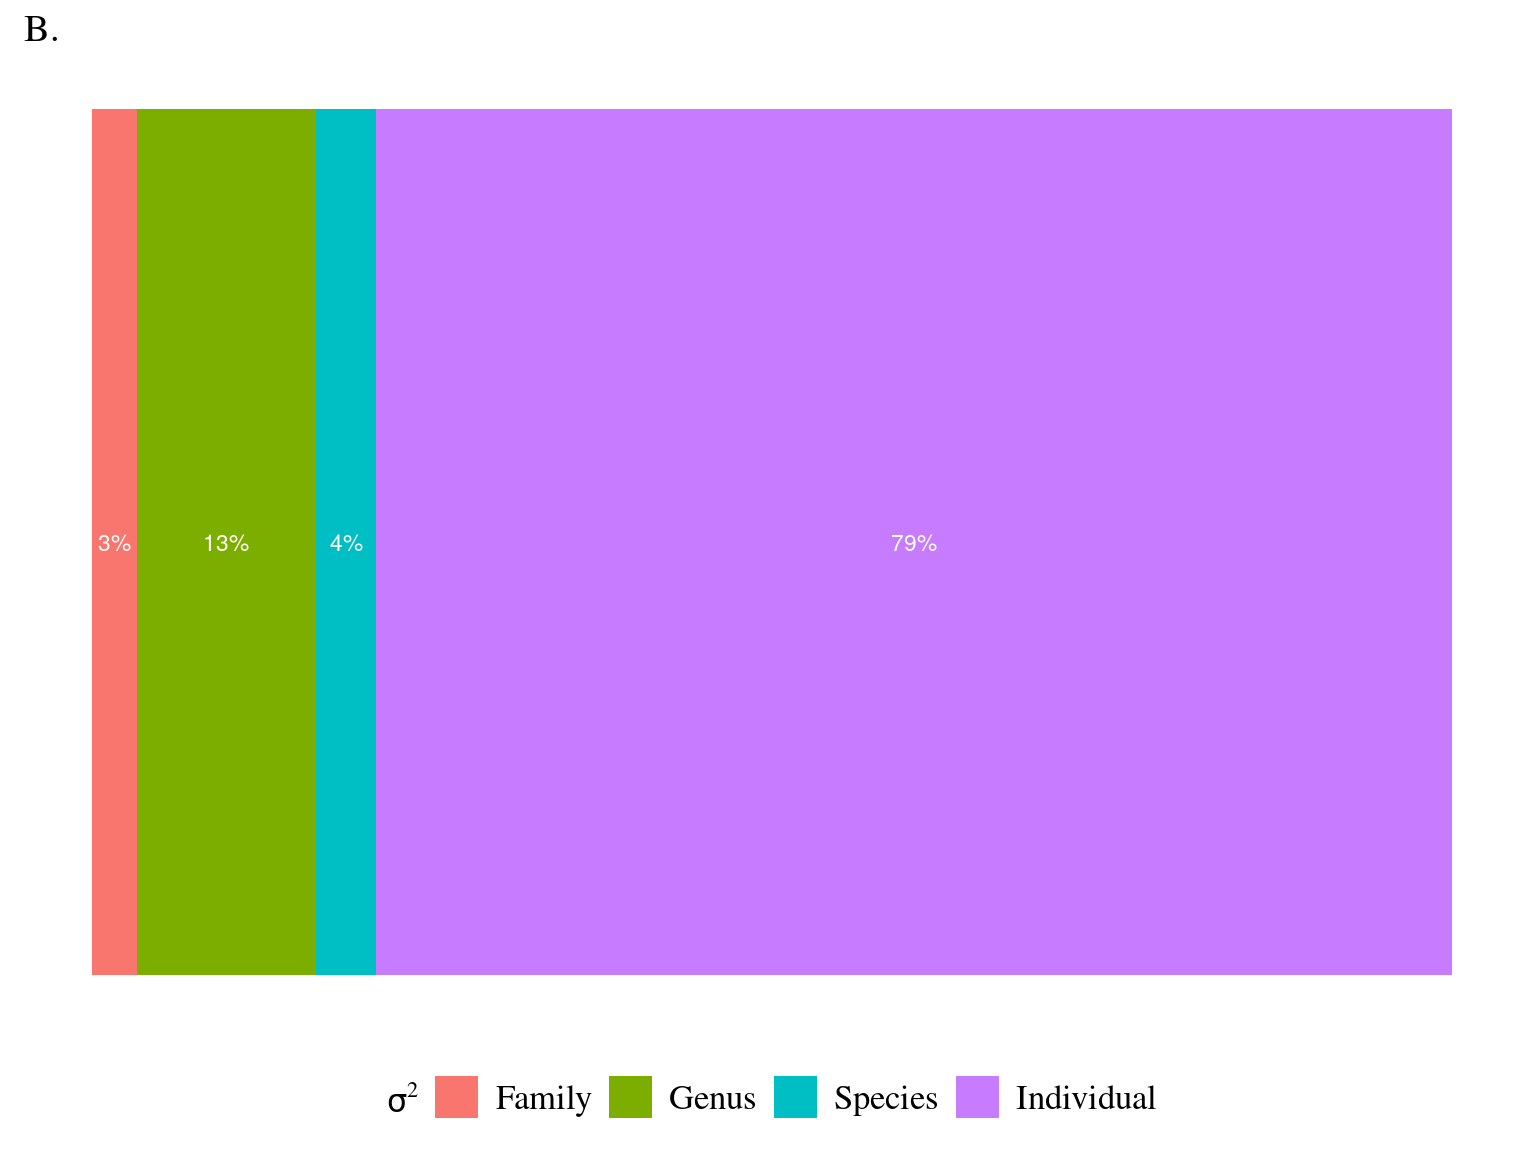
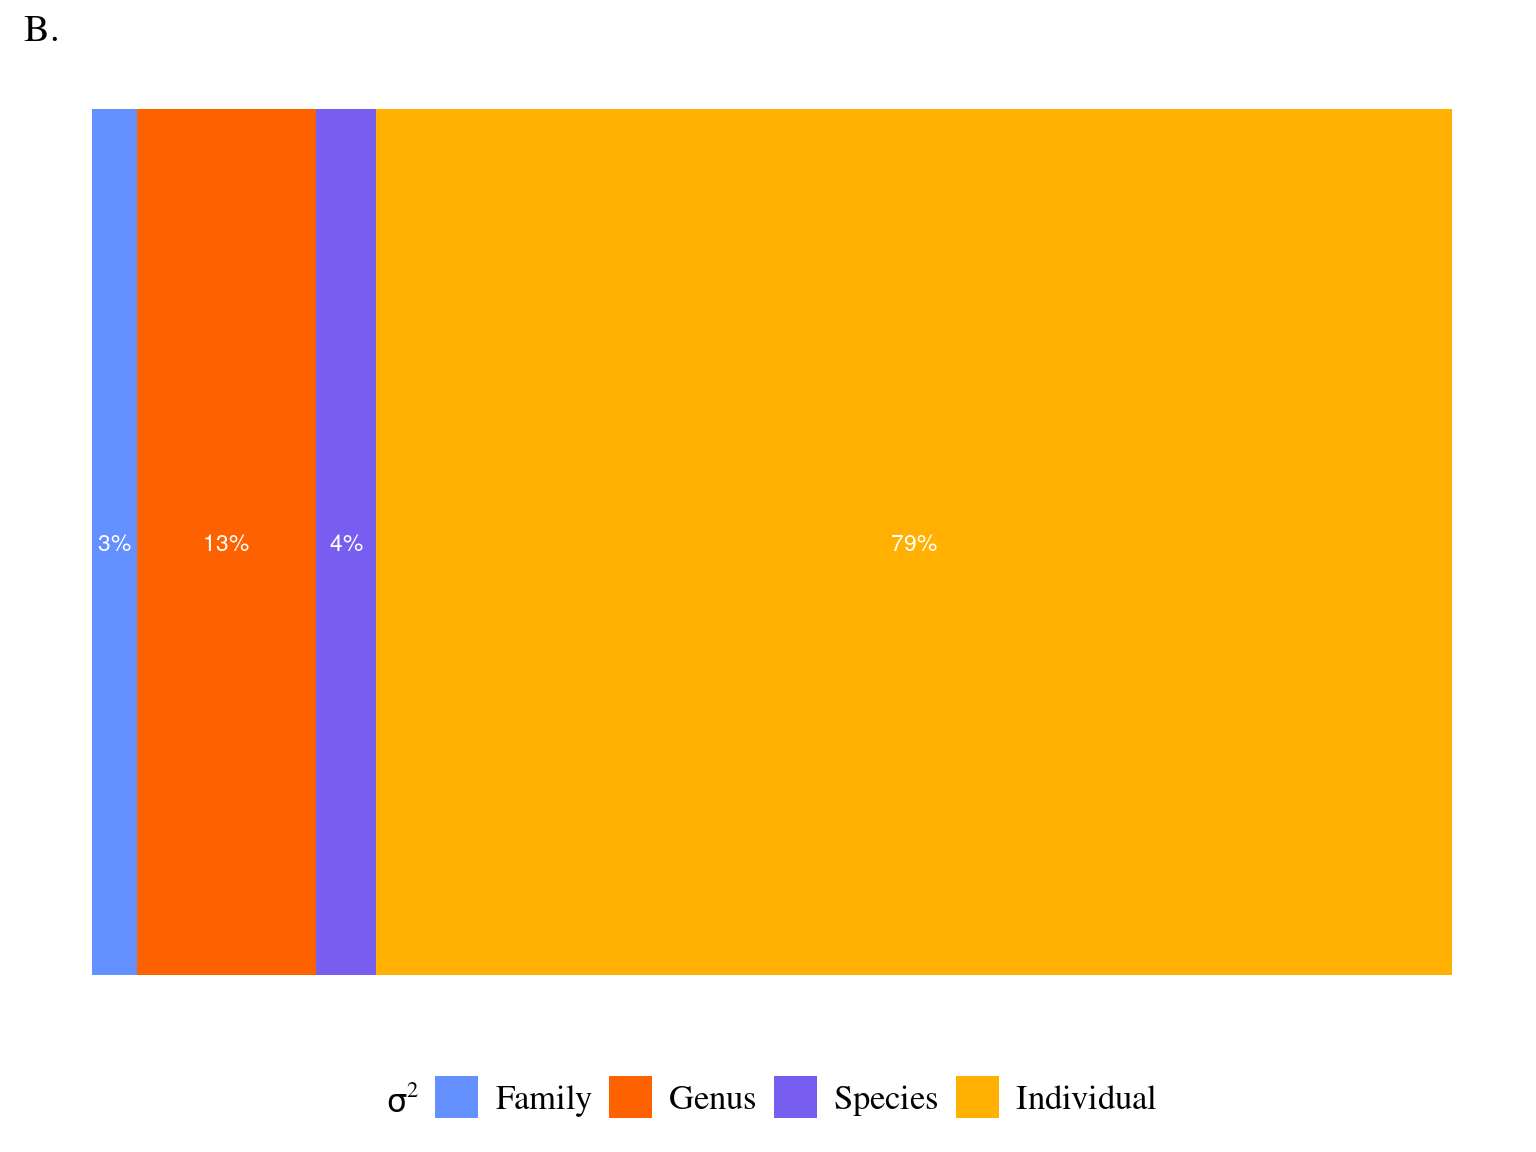
colourblind palette

diff --git a/docs/404.html b/docs/404.html
@@ -23,7 +23,7 @@
 <meta name="author" content="Sylvain Schmitt" />
 
 
-<meta name="date" content="2023-01-16" />
+<meta name="date" content="2023-01-20" />
 
   <meta name="viewport" content="width=device-width, initial-scale=1" />
   <meta name="apple-mobile-web-app-capable" content="yes" />
@@ -55,70 +55,6 @@
 <script async defer src="https://hypothes.is/embed.js"></script>
 
 
-<style type="text/css">
-pre > code.sourceCode { white-space: pre; position: relative; }
-pre > code.sourceCode > span { display: inline-block; line-height: 1.25; }
-pre > code.sourceCode > span:empty { height: 1.2em; }
-.sourceCode { overflow: visible; }
-code.sourceCode > span { color: inherit; text-decoration: inherit; }
-pre.sourceCode { margin: 0; }
-@media screen {
-div.sourceCode { overflow: auto; }
-}
-@media print {
-pre > code.sourceCode { white-space: pre-wrap; }
-pre > code.sourceCode > span { text-indent: -5em; padding-left: 5em; }
-}
-pre.numberSource code
-  { counter-reset: source-line 0; }
-pre.numberSource code > span
-  { position: relative; left: -4em; counter-increment: source-line; }
-pre.numberSource code > span > a:first-child::before
-  { content: counter(source-line);
-    position: relative; left: -1em; text-align: right; vertical-align: baseline;
-    border: none; display: inline-block;
-    -webkit-touch-callout: none; -webkit-user-select: none;
-    -khtml-user-select: none; -moz-user-select: none;
-    -ms-user-select: none; user-select: none;
-    padding: 0 4px; width: 4em;
-    color: #aaaaaa;
-  }
-pre.numberSource { margin-left: 3em; border-left: 1px solid #aaaaaa;  padding-left: 4px; }
-div.sourceCode
-  {   }
-@media screen {
-pre > code.sourceCode > span > a:first-child::before { text-decoration: underline; }
-}
-code span.al { color: #ff0000; font-weight: bold; } /* Alert */
-code span.an { color: #60a0b0; font-weight: bold; font-style: italic; } /* Annotation */
-code span.at { color: #7d9029; } /* Attribute */
-code span.bn { color: #40a070; } /* BaseN */
-code span.bu { color: #008000; } /* BuiltIn */
-code span.cf { color: #007020; font-weight: bold; } /* ControlFlow */
-code span.ch { color: #4070a0; } /* Char */
-code span.cn { color: #880000; } /* Constant */
-code span.co { color: #60a0b0; font-style: italic; } /* Comment */
-code span.cv { color: #60a0b0; font-weight: bold; font-style: italic; } /* CommentVar */
-code span.do { color: #ba2121; font-style: italic; } /* Documentation */
-code span.dt { color: #902000; } /* DataType */
-code span.dv { color: #40a070; } /* DecVal */
-code span.er { color: #ff0000; font-weight: bold; } /* Error */
-code span.ex { } /* Extension */
-code span.fl { color: #40a070; } /* Float */
-code span.fu { color: #06287e; } /* Function */
-code span.im { color: #008000; font-weight: bold; } /* Import */
-code span.in { color: #60a0b0; font-weight: bold; font-style: italic; } /* Information */
-code span.kw { color: #007020; font-weight: bold; } /* Keyword */
-code span.op { color: #666666; } /* Operator */
-code span.ot { color: #007020; } /* Other */
-code span.pp { color: #bc7a00; } /* Preprocessor */
-code span.sc { color: #4070a0; } /* SpecialChar */
-code span.ss { color: #bb6688; } /* SpecialString */
-code span.st { color: #4070a0; } /* String */
-code span.va { color: #19177c; } /* Variable */
-code span.vs { color: #4070a0; } /* VerbatimString */
-code span.wa { color: #60a0b0; font-weight: bold; font-style: italic; } /* Warning */
-</style>
 
 <style type="text/css">
 /* Used with Pandoc 2.11+ new --citeproc when CSL is used */

diff --git a/docs/eco-evolutionary-analyses.html b/docs/eco-evolutionary-analyses.html
@@ -23,7 +23,7 @@
 <meta name="author" content="Sylvain Schmitt" />
 
 
-<meta name="date" content="2023-01-16" />
+<meta name="date" content="2023-01-20" />
 
   <meta name="viewport" content="width=device-width, initial-scale=1" />
   <meta name="apple-mobile-web-app-capable" content="yes" />
@@ -55,70 +55,6 @@
 <script async defer src="https://hypothes.is/embed.js"></script>
 
 
-<style type="text/css">
-pre > code.sourceCode { white-space: pre; position: relative; }
-pre > code.sourceCode > span { display: inline-block; line-height: 1.25; }
-pre > code.sourceCode > span:empty { height: 1.2em; }
-.sourceCode { overflow: visible; }
-code.sourceCode > span { color: inherit; text-decoration: inherit; }
-pre.sourceCode { margin: 0; }
-@media screen {
-div.sourceCode { overflow: auto; }
-}
-@media print {
-pre > code.sourceCode { white-space: pre-wrap; }
-pre > code.sourceCode > span { text-indent: -5em; padding-left: 5em; }
-}
-pre.numberSource code
-  { counter-reset: source-line 0; }
-pre.numberSource code > span
-  { position: relative; left: -4em; counter-increment: source-line; }
-pre.numberSource code > span > a:first-child::before
-  { content: counter(source-line);
-    position: relative; left: -1em; text-align: right; vertical-align: baseline;
-    border: none; display: inline-block;
-    -webkit-touch-callout: none; -webkit-user-select: none;
-    -khtml-user-select: none; -moz-user-select: none;
-    -ms-user-select: none; user-select: none;
-    padding: 0 4px; width: 4em;
-    color: #aaaaaa;
-  }
-pre.numberSource { margin-left: 3em; border-left: 1px solid #aaaaaa;  padding-left: 4px; }
-div.sourceCode
-  {   }
-@media screen {
-pre > code.sourceCode > span > a:first-child::before { text-decoration: underline; }
-}
-code span.al { color: #ff0000; font-weight: bold; } /* Alert */
-code span.an { color: #60a0b0; font-weight: bold; font-style: italic; } /* Annotation */
-code span.at { color: #7d9029; } /* Attribute */
-code span.bn { color: #40a070; } /* BaseN */
-code span.bu { color: #008000; } /* BuiltIn */
-code span.cf { color: #007020; font-weight: bold; } /* ControlFlow */
-code span.ch { color: #4070a0; } /* Char */
-code span.cn { color: #880000; } /* Constant */
-code span.co { color: #60a0b0; font-style: italic; } /* Comment */
-code span.cv { color: #60a0b0; font-weight: bold; font-style: italic; } /* CommentVar */
-code span.do { color: #ba2121; font-style: italic; } /* Documentation */
-code span.dt { color: #902000; } /* DataType */
-code span.dv { color: #40a070; } /* DecVal */
-code span.er { color: #ff0000; font-weight: bold; } /* Error */
-code span.ex { } /* Extension */
-code span.fl { color: #40a070; } /* Float */
-code span.fu { color: #06287e; } /* Function */
-code span.im { color: #008000; font-weight: bold; } /* Import */
-code span.in { color: #60a0b0; font-weight: bold; font-style: italic; } /* Information */
-code span.kw { color: #007020; font-weight: bold; } /* Keyword */
-code span.op { color: #666666; } /* Operator */
-code span.ot { color: #007020; } /* Other */
-code span.pp { color: #bc7a00; } /* Preprocessor */
-code span.sc { color: #4070a0; } /* SpecialChar */
-code span.ss { color: #bb6688; } /* SpecialString */
-code span.st { color: #4070a0; } /* String */
-code span.va { color: #19177c; } /* Variable */
-code span.vs { color: #4070a0; } /* VerbatimString */
-code span.wa { color: #60a0b0; font-weight: bold; font-style: italic; } /* Warning */
-</style>
 
 <style type="text/css">
 /* Used with Pandoc 2.11+ new --citeproc when CSL is used */
